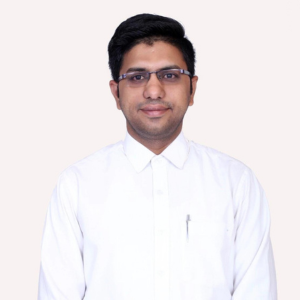
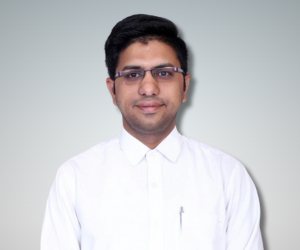
3rd commit 26 june

diff --git a/about.html b/about.html
@@ -172,13 +172,21 @@ https://templatemo.com/tm-545-finance-business
             <div class="row">
               <div class="col-md-7 align-self-center">
                 <div class="right-content">
-                  <span>Meet the Founder</span>
-                  <h2>CA Abhishek Dashpute
+                  <span>Meet the Founders</span>
+                  <h2>CA D. R. Dashpute
                     </em></h2>
-                  <p>The firm was founded by Shri D. R. Dashpute in the early ‘80s. He holds Bachelor’s Degree in
+                  <p>The firm was founded by <b>Shri D. R. Dashpute</b> in the early ‘80s. He holds Bachelor’s Degree in
                     Commerce and is a practitioner in Direct Tax and Indirect Taxes. He started his venture of
-                    Accounting and Tax Consultancy and a Pioneer in this field in the region of Pune. He brings in his
+                    Accounting and Tax Consultancy and was a Pioneer in this field in Pune. He brings in his
                     wide experience of handling all types of scenarios for the clients.</p>
+                  <p>Young and intelligent, <b>Abhishek Dashpute</b> is currently heading Dashpute and Associates and carrying
+                    on his father's business. In addition to finishing his nearly ten-year trip. He gained experience in
+                    the consulting field from the beginning of his career before he was even qualified as a CA,. He is
+                    in charge of the Audit and Assurance section. His goal is to transform this company into a
+                    "Multi-Dimensional Firm" with a diverse pool of partners covering several departments. His main area
+                    of interest is "mind-set," which translates to something like <b>"You can change this world the way
+                      you
+                      want if you change your mindset."</b></p>
                   <!-- <a href="" class="filled-button">Read More</a> -->
                   <ul class="social-icons">
 
@@ -200,6 +208,8 @@ https://templatemo.com/tm-545-finance-business
           </div>
         </div>
       </div>
+
+
     </div>
   </div>
 
@@ -276,7 +286,7 @@ https://templatemo.com/tm-545-finance-business
         <div class="col-md-6 col-lg-4">
           <div class="team-item">
             <div class="team-img">
-              <img src="assets/images/CA_deepak_sonwane.png" alt="CA Deepak Sonwane">
+              <img src="assets/images/deepak-sonwane.png" alt="CA Deepak Sonwane">
             </div>
             <div class="down-content">
               <h4>CA Deepak Sonwane</h4>
@@ -300,7 +310,7 @@ https://templatemo.com/tm-545-finance-business
         <div class="col-md-6 col-lg-4 mt-4 mt-md-0">
           <div class="team-item">
             <div class="team-img">
-              <img src="assets/images/CA_Shrinath.png" alt="CA Shrinath Sardeshmukh">
+              <img src="assets/images/Shreenath-sardeshmukh.png" alt="CA Shrinath Sardeshmukh">
             </div>
             <div class="down-content">
               <h4>CA Shrinath Sardeshmukh</h4>
@@ -336,7 +346,7 @@ https://templatemo.com/tm-545-finance-business
               stands as a beacon of excellence. Having served over 1000 clients to date, our firm has honed a reputation
               for delivering tailored solutions that exceed expectations.
               <br><br>At Dashpute & Associates, our strength lies in our diverse team of seasoned professionals and
-              dynamic young talents. With over 250 years of combined experience, we marry decades of industry wisdom
+              dynamic young talents. With over 2191500 Hours of combined experience, we marry decades of industry wisdom
               with innovative thinking to address the unique needs of each client. Partner with us to navigate the
               intricacies of finance and unlock your business's full potential. Contact Dashpute & Associates today and
               embark on a journey towards sustainable success.
@@ -487,11 +497,11 @@ https://templatemo.com/tm-545-finance-business
           </ul>
         </div>
         <div class="col-md-6 col-lg-3 footer-item d-block d-md-none">
-          <a style="color: #fff;" data-bs-toggle="collapse" href="#services-footer" role="button"
-          aria-expanded="false" aria-controls="services-footer">
+          <a style="color: #fff;" data-bs-toggle="collapse" href="#services-footer" role="button" aria-expanded="false"
+            aria-controls="services-footer">
             <div class="d-flex justify-content-between">
               <h4>Services</h4>
-                  <i class="fa-solid fa-sort-down"></i>
+              <i class="fa-solid fa-sort-down"></i>
             </div>
           </a>
           <div class="collapse" id="services-footer">
@@ -522,10 +532,10 @@ https://templatemo.com/tm-545-finance-business
         </div>
         <div class="col-md-6 col-lg-2 footer-item mt-md-5 mt-lg-0 d-block d-md-none">
           <a style="color: #fff;" data-bs-toggle="collapse" href="#quick-links-footer" role="button"
-          aria-expanded="false" aria-controls="quick-links-footer">
+            aria-expanded="false" aria-controls="quick-links-footer">
             <div class="d-flex justify-content-between">
               <h4>Quick Links</h4>
-                  <i class="fa-solid fa-sort-down"></i>
+              <i class="fa-solid fa-sort-down"></i>
             </div>
           </a>
           <div class="collapse" id="quick-links-footer">
@@ -538,11 +548,12 @@ https://templatemo.com/tm-545-finance-business
               </ul>
             </div>
           </div>
-          
+
         </div>
 
 
-        <div class="col-md-6 col-lg-3 footer-item last-item text-center text-md-start mt-md-5 mt-lg-0 d-none d-md-block">
+        <div
+          class="col-md-6 col-lg-3 footer-item last-item text-center text-md-start mt-md-5 mt-lg-0 d-none d-md-block">
           <h4>Contact Us</h4>
           <div class="contact-form">
             <form id="contact footer-contact"
@@ -580,13 +591,14 @@ https://templatemo.com/tm-545-finance-business
           </div>
         </div>
 
-        <div class="col-md-6 col-lg-3 footer-item last-item text-center text-md-start mt-md-5 mt-lg-0 d-block d-md-none">
-          
+        <div
+          class="col-md-6 col-lg-3 footer-item last-item text-center text-md-start mt-md-5 mt-lg-0 d-block d-md-none">
+
           <a style="color: #fff;" data-bs-toggle="collapse" href="#contact-form-footer" role="button"
-          aria-expanded="false" aria-controls="contact-form-footer">
+            aria-expanded="false" aria-controls="contact-form-footer">
             <div class="d-flex justify-content-between">
               <h4>Contact Us</h4>
-                  <i class="fa-solid fa-sort-down"></i>
+              <i class="fa-solid fa-sort-down"></i>
             </div>
           </a>
           <div class="collapse" id="contact-form-footer">
@@ -598,22 +610,22 @@ https://templatemo.com/tm-545-finance-business
                   <div class="row">
                     <div class="col-lg-12 col-md-12 col-sm-12">
                       <fieldset>
-                        <input name="entry.1889441395" type="text" class="form-control" id="fname" placeholder="Full Name"
-                          required="true">
+                        <input name="entry.1889441395" type="text" class="form-control" id="fname"
+                          placeholder="Full Name" required="true">
                       </fieldset>
                     </div>
                     <div class="col-lg-12 col-md-12 col-sm-12">
                       <fieldset>
-                        <input name="entry.321133465" type="text" class="form-control" id="femail" pattern="[^ @]*@[^ @]*"
-                          placeholder="E-Mail Address" required="true">
+                        <input name="entry.321133465" type="text" class="form-control" id="femail"
+                          pattern="[^ @]*@[^ @]*" placeholder="E-Mail Address" required="true">
                       </fieldset>
                     </div>
                     <div class="col-lg-12">
                       <fieldset>
                         <input type="text" name="entry.2083866496" rows="6" class="form-control" id="fmessage"
                           placeholder="Your Message" required="true">
-    
-    
+
+
                       </fieldset>
                     </div>
                     <div class="col-lg-12">
@@ -627,7 +639,7 @@ https://templatemo.com/tm-545-finance-business
               </div>
             </div>
           </div>
-          
+
         </div>
       </div>
     </div>

diff --git a/services.html b/services.html
@@ -188,11 +188,11 @@ https://templatemo.com/tm-545-finance-business
           <section class='tabs-content' id="scrollToDiv">
             <article id='tabs-1'>
               <img src="assets/images/formation_of_business_entity.webp" alt="Business Setup">
-              <h2>Business Set up</h2><br>
+              <h2>Business Set up</h2>
               <p>At Dashpute & Associates, we understand that every business begins with a dream and a vision. However,
                 navigating through complex tax laws and financial regulations can be overwhelming. Thats why we are your
                 trusted financial service partner.
-              </p><br>
+              </p>
               <p><b>Our comprehensive range of services includes :</b></p>
               <ul>
                 <li>Tax Assistance</li>
@@ -207,9 +207,12 @@ https://templatemo.com/tm-545-finance-business
 
             <article id='tabs-2'>
               <img src="assets/images/AMC.webp" alt="Advanced Management Consultancy">
-              <h2>Advanced Management Consultancy (AMC)</h2><br>
-              <p>Are you running a business for many years but not able to grow as per the vintage and the market growth
-                rate? Do you want to set up a new business but don’t know how to do it? Where to start? We are a
+              <h2>Advanced Management Consultancy (AMC)</h2>
+              <p><b>Q. Are you running a business for many years but not able to grow as per the vintage and the market growth
+                rate?</b></p>
+              <p><b>Q. Do you want to set up a new business but don’t know how to do it?</b></p>
+              <p><b>Q. Where to start?</b></p>
+              <p>We are a
                 business consulting firm that assists organizations to improve their performance and efficiency.
                 Regardless of the industry, we offer a customized consulting service that outlines everything you will
                 need to take your business to the next level. Our team has vast expertise in this field that uses
@@ -251,7 +254,7 @@ https://templatemo.com/tm-545-finance-business
 
             <article id='tabs-3'>
               <img src="assets/images/MSME-advisory.webp" alt="MSME Advisory">
-              <h2>MSME Advisory</h2><br>
+              <h2>MSME Advisory</h2>
               <p>Micro, Small, and Medium Enterprises (MSMEs) play an important role in the economic growth and
                 employment generation of any country. The MSME sector has played a key role in the socio-economic
                 development of India, contributed inevitably to industrialization and infrastructural development, and
@@ -263,11 +266,11 @@ https://templatemo.com/tm-545-finance-business
                 incorporation until taking them to the SME stock exchange. In this entire journey, we have been playing
                 an important role in bringing to fore the opportunities available for MSMEs in the form of various
                 schemes, loans and other benefits provided by the government.
-              </p> <br>
+              </p> 
 
               <p><b>We support to MSMEs in the following ways:</b></p>
               <ul>
-                <li>- Assistance in raising funds for capital expenditure or working capital through various schemes
+                <li>Assistance in raising funds for capital expenditure or working capital through various schemes
                   viz.
                   Standup India , CMEGP, PMEGP, MUDRA, CGTMSE, etc. </li>
                 <li>Assistance in financing of trade receivables</li>
@@ -282,7 +285,7 @@ https://templatemo.com/tm-545-finance-business
 
             <article id='tabs-4'>
               <img src="assets/images/advisory.webp" alt="Startup Advisory">
-              <h2>Startup Advisory</h2><br>
+              <h2>Startup Advisory</h2>
               <p>India has been witnessing a startup revolution for the past few years and it ranks third in the global
                 list of countries with the largest startup ecosystems. Most startups work in uncertainty and with
                 limited resources; hence, there is a need for startup consultants to provide proper guidance to
@@ -290,7 +293,7 @@ https://templatemo.com/tm-545-finance-business
                 accomplished. We provide all the startup consulting services for entrepreneurs to launch and run their
                 businesses successfully. Our dedicated team of professionals with rich experience in startup advisory
                 helps you realize your dream and set up your own business.
-              </p><br>
+              </p>
               <p><b>Our services encompass -</b></p>
               <ul>
                 <li>Business Incorporation and registration</li>
@@ -312,7 +315,7 @@ https://templatemo.com/tm-545-finance-business
 
             <article id='tabs-5'>
               <img src="assets/images/ESG-advisory.webp" alt="Sustainability & ESG Advisory">
-              <h2>Sustainability & ESG Advisory</h2><br>
+              <h2>Sustainability & ESG Advisory</h2>
               <p>In order to survive and grow in an increasingly competitive and accountable business environment
                 organizations are required to report not only on their financial performance, but also their
                 non-financial performance. Environment, Social, and Government (ESG) is a journey that every
@@ -322,7 +325,7 @@ https://templatemo.com/tm-545-finance-business
                 complement each other.
 
 
-              </p><br>
+              </p>
               <p><b>Our services include :
                 </b></p>
               <ul>
@@ -335,11 +338,11 @@ https://templatemo.com/tm-545-finance-business
 
             <article id='tabs-6'>
               <img src="assets/images/Audit.webp" alt="Audit and assurance services">
-              <h2>Audit and assurance services</h2><br>
+              <h2>Audit and assurance services</h2>
               <p>Our promise in audit and assurance is not just about numbers, it’s about offering an impartial evaluation and validation of the financial intricacies within your enterprise. We delve deep into financial statements, internal mechanisms, and adherence to legal mandates, ensuring that stakeholders can trust the financial statements.
                 Broadly, our audit services involve the following:
                 
-              </p><br>
+              </p>
 
               <p><b>Our audit services involve the following:</b></p>
 
@@ -352,7 +355,7 @@ https://templatemo.com/tm-545-finance-business
                 <li>Reporting inefficiencies at any operational level. </li>
                 <li>Detection and prevention of leakages of income and suggesting
                   corrective measures to prevent recurrence. </li>
-              </ul> <br>
+              </ul> 
 
               <p><b>Our Audit & Assurance Services span:</b></p>
 
@@ -365,8 +368,8 @@ https://templatemo.com/tm-545-finance-business
 
             <article id='tabs-7'>
               <img src="assets/images/taxation.webp" alt="Taxation Services">
-              <h2>Tax Advisory</h2> <br>
-              <p><b>(A) Direct Tax</b></p><br>
+              <h2>Tax Advisory</h2> 
+              <p><b>(A) Direct Tax</b></p>
 
               <ul>
                 <li><b>Domestic Compliance:</b> Corporate & Individual, Advisory& Transaction Tax, Due diligence, Search &
@@ -377,9 +380,9 @@ https://templatemo.com/tm-545-finance-business
                   Commission & ITAT</li>
                 <li>PT Returns</li>
                 <li><b>General:</b> Formation of Trusts, Succession Planning, Expat PF withdrawal</li>
-              </ul> <br>
+              </ul> 
 
-              <p><b>(B) Indirect Tax</b></p><br>
+              <p><b>(B) Indirect Tax</b></p>
               <ul>
                 <li>GST Retainership and Assistance in filing of GST Returns</li>
                 <li>GST Reconciliation services</li>
@@ -397,7 +400,7 @@ https://templatemo.com/tm-545-finance-business
             <article id='tabs-8'>
               <img src="assets/images/Managed-Services.webp" alt="Managed Services/Global Knowledge Services">
 
-              <h2>Managed Services/Global Knowledge Services</h2><br>
+              <h2>Managed Services/Global Knowledge Services</h2>
               <ul>
                 <li>Virtual CFO services</li>
                 <li>Registration under various enactments: Obtaining PAN / TAN from the Income Tax Authorities,

diff --git a/index.html b/index.html
@@ -162,8 +162,7 @@ https://templatemo.com/tm-545-finance-business
           <div class="text-content">
             <h6>we are ready to help you with</h6>
             <h4>Statutory Compliance</h4>
-            <p>Welcome to Dashpute and Associate, A destination where your financial goals are going to pull-off by our
-              dedicated financial analysis and consulting services. Let us lead you towards success and growth.
+            <p>Ensuring your business meets all legal and regulatory requirements.
             </p>
             <a href="services.html" class="filled-button">Our Services</a>
           </div>
@@ -176,9 +175,7 @@ https://templatemo.com/tm-545-finance-business
           <div class="text-content">
             <h6>We're here to help you with</h6>
             <h4> Management Consolidation</h4>
-            <p>We are here to assist you with
-              Our group is committed to providing assistance in all areas of management and accountancy. We're dedicated
-              to assisting you in managing your money and making wise choices.
+            <p>Streamlining operations for cohesive management and strategic growth.
             </p>
             <a href="services.html" class="filled-button">our services</a>
           </div>
@@ -191,8 +188,8 @@ https://templatemo.com/tm-545-finance-business
           <div class="text-content">
             <h6>we have a solid background in</h6>
             <h4>Tax Advisory</h4>
-            <p>With a strong foundation and years of experience, we thoroughly research the industry to provide
-              tailored, data-driven, and significant business recommendations for your needs</p>
+            <p>Expert guidance to navigate complex tax landscapes and optimize your financial strategy.
+            </p>
             <a href="services.html" class="filled-button">Our Services</a>
           </div>
         </div>
@@ -277,7 +274,7 @@ https://templatemo.com/tm-545-finance-business
               stands as a beacon of excellence. Having served over 1000 clients to date, our firm has honed a reputation
               for delivering tailored solutions that exceed expectations.
               <br><br>At Dashpute & Associates, our strength lies in our diverse team of seasoned professionals and
-              dynamic young talents. With over 250 years of combined experience, we marry decades of industry wisdom
+              dynamic young talents. With over 2191500 Hours of combined experience, we marry decades of industry wisdom
               with innovative thinking to address the unique needs of each client. Partner with us to navigate the
               intricacies of finance and unlock your business's full potential. Contact Dashpute & Associates today and
               embark on a journey towards sustainable success.
@@ -342,8 +339,8 @@ https://templatemo.com/tm-545-finance-business
                   <span>Who we are</span>
                   <h2>Get to know about <em>Dashpute and Associates</em></h2>
                   <p>Dashpute and Associates is an Accounting, Auditing and Consulting firm having a rich blend of
-                    heritage of 40 years and aspiration of a growing firm, which provides tailor made solutions to
-                    satisfy the clients' needs through a flawless and dedicated process, technology, and innovation.
+                    heritage of 36+ years and aspiration of a growing firm, which provides tailor made solutions to
+                    satisfy the clients' needs through flawless and dedicated process, technology, and innovation.
                     Headquartered in Pune, registered with Institute of Chartered Accountants of India (ICAI).
 
                   </p>

diff --git a/assets/css/templatemo-finance-business.css b/assets/css/templatemo-finance-business.css
@@ -487,7 +487,7 @@ header .navbar {
         background-size: cover;
         background-position: center center;
         background-repeat: no-repeat;
-        height: 60vh;
+        height: 75vh;
 		margin-top: 80px;
     }
 }
@@ -566,7 +566,7 @@ ul.slick-dots {
 }
 
 .Modern-Slider .item h4 {
-	margin-bottom: 30px;
+	margin-bottom: 0px;
 	text-transform: uppercase;
 	font-size: 44px;
 	font-weight: 700;
@@ -1881,4 +1881,7 @@ article ul{
 	background-color: transparent;
 	border: none;
 	padding: 20px 0px;
+}
+.tabs-content h2{
+	margin-bottom: 10px;
 }
